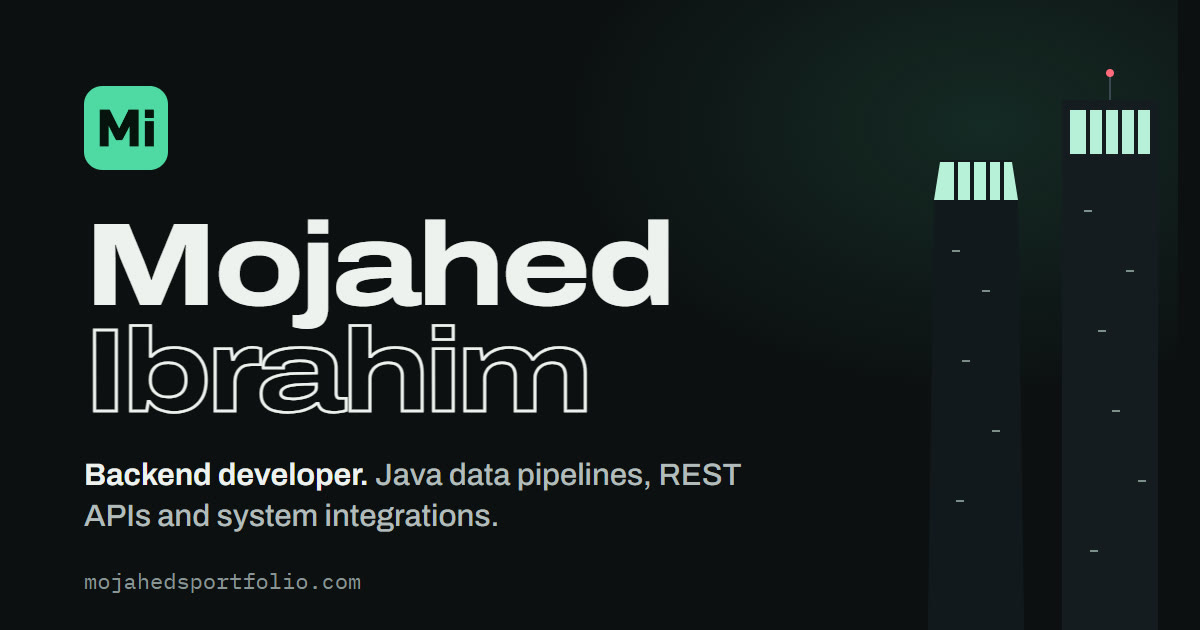
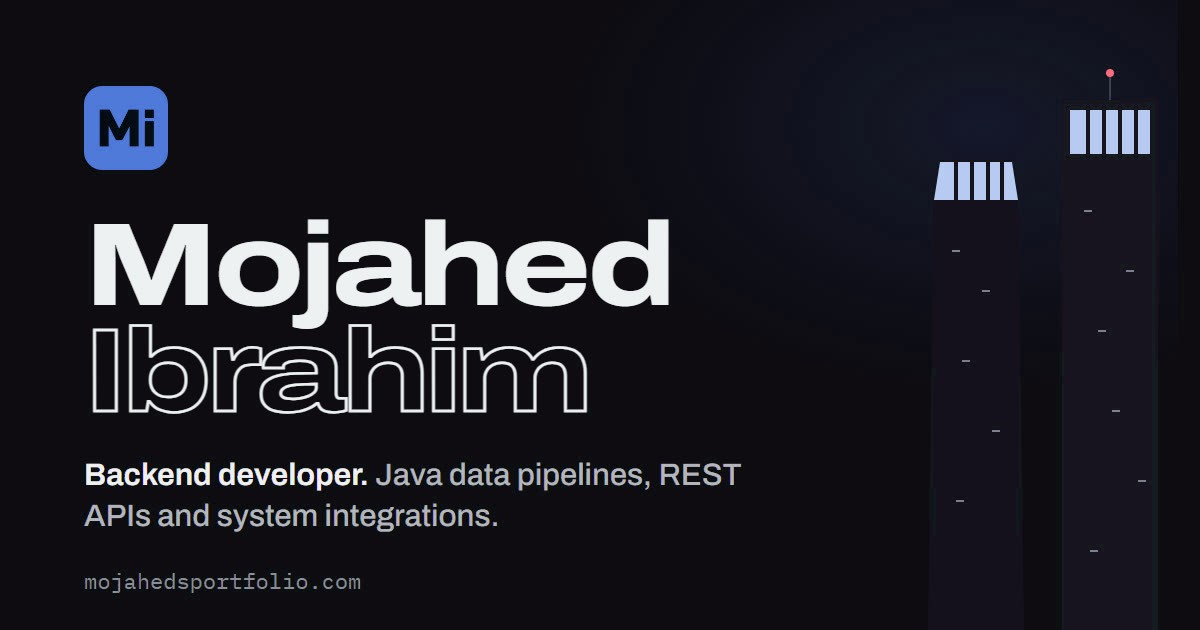
Replace the graphite and jade default with Blue Hour (navy, cobalt, rose)
The skyline colours now derive from the theme tokens, and the favicon, app
icons, social card and intro follow the new accent. Two alternative
palettes are previewable in dev with ?p=b and ?p=c.

diff --git a/src/styles.css b/src/styles.css
@@ -1,38 +1,77 @@
 /* Night shift: a résumé laid out as a control desk.
-   Cool graphite, like a server room with the lights down. One accent: jade, the green of a
-   passing check and a healthy service, which is what retries and failure alerts protect.
-   It is a blue-leaning green kept below neon, so it sits with the graphite instead of
-   glowing on it. Jade is a fill (buttons, the mark, a match) and, because it clears AA on
-   every surface here, also text and thin lines. Ice blue is the quiet second voice for
-   data (bars, timelines, focus). No yellow, orange, coral, periwinkle or purple.
-   Two themes: "dark" (graphite, the default) and "darker" (near-black for OLED screens
-   and dark rooms, where panels give way to hairlines). */
+   Two themes, one family. "dark" (Blue Hour, the default) is the sky twenty minutes after
+   sunset: navy slate panels, a cobalt accent, and rose for data, the last light on the
+   horizon. "darker" (Midnight) is the same sky hours later: blue-ink black for OLED
+   screens and dark rooms, where panels give way to hairlines and the accent cools to ice.
+   Cobalt is a fill (buttons, the mark, a match) and, because it clears AA on every surface
+   here, also text and thin lines. No yellow, orange or green. */
 
 :root,
 [data-theme="dark"] {
-  /* Evening: graphite, filled panels with soft shadows, jade accent. */
+  /* Blue Hour: navy slate, filled panels with soft shadows, cobalt accent, rose data. */
   color-scheme: dark;
-  --bg: #101416;
-  --panel: #161b1e;
-  --raised: #1d2427;
-  --sunk: #0c0f11;
-  --line: rgb(220 232 228 / 0.09);
-  --line-2: rgb(220 232 228 / 0.17);
-  --ink: #ecefec;
-  --ink-2: #aab4b2;
-  --ink-3: #8b9694;
-  --signal: #4fd9a4;
-  --signal-fg: #5fe0ae;
-  --signal-ink: #06130d;
-  --signal-soft: rgb(79 217 164 / 0.12);
+  --bg: #0e131f;
+  --panel: #151b2a;
+  --raised: #1d2437;
+  --sunk: #0a0e17;
+  --line: rgb(200 215 255 / 0.09);
+  --line-2: rgb(200 215 255 / 0.17);
+  --ink: #eceff6;
+  --ink-2: #aab2c5;
+  --ink-3: #8a93a8;
+  --signal: #7ea6ff;
+  --signal-fg: #94b6ff;
+  --signal-ink: #071026;
+  --signal-soft: rgb(126 166 255 / 0.13);
   --danger: #ff8a98;
-  --data: #8fb8cc;
-  --data-2: #5d889b;
-  --data-soft: rgb(143 184 204 / 0.12);
-  --tape: #e6ebe8;
-  --tape-ink: #1a1f21;
-  --shadow: 0 1px 0 rgb(255 255 255 / 0.04) inset, 0 24px 48px -28px rgb(2 8 6 / 0.7);
-  --pop: 0 30px 80px -20px rgb(2 6 8 / 0.8);
+  --data: #f0a3c0;
+  --data-2: #b0688a;
+  --data-soft: rgb(240 163 192 / 0.12);
+  --tape: #e4e8f2;
+  --tape-ink: #161b28;
+  --shadow: 0 1px 0 rgb(255 255 255 / 0.04) inset, 0 24px 48px -28px rgb(2 4 12 / 0.7);
+  --pop: 0 30px 80px -20px rgb(2 4 10 / 0.8);
+}
+
+/* PALETTE CANDIDATES (review only): ?p=b or ?p=c in dev. Delete the two blocks that lose. */
+[data-theme="dark"][data-p="b"] {
+  /* Dusk Rose: plum ink, rose accent, periwinkle data. */
+  --bg: #15121b;
+  --panel: #1c1824;
+  --raised: #251f30;
+  --sunk: #0f0c14;
+  --line: rgb(235 215 245 / 0.09);
+  --line-2: rgb(235 215 245 / 0.17);
+  --ink: #f1ecf3;
+  --ink-2: #b7adbd;
+  --ink-3: #968c9d;
+  --signal: #f28db2;
+  --signal-fg: #f7a3c2;
+  --signal-ink: #2a0716;
+  --signal-soft: rgb(242 141 178 / 0.13);
+  --data: #9db5ff;
+  --data-2: #6a80c4;
+  --data-soft: rgb(157 181 255 / 0.12);
+}
+
+[data-theme="dark"][data-p="c"] {
+  /* Violet Ink: indigo black, violet accent, cyan data. */
+  --bg: #100f1c;
+  --panel: #171628;
+  --raised: #201e36;
+  --sunk: #0a0914;
+  --line: rgb(205 200 255 / 0.09);
+  --line-2: rgb(205 200 255 / 0.17);
+  --ink: #eeedf7;
+  --ink-2: #afadc4;
+  --ink-3: #8f8ca8;
+  --signal: #a79bff;
+  --signal-fg: #b9afff;
+  --signal-ink: #0e0a2c;
+  --signal-soft: rgb(167 155 255 / 0.13);
+  --data: #6fd0e8;
+  --data-2: #3f93aa;
+  --data-soft: rgb(111 208 232 / 0.12);
 }
 
 [data-theme="darker"] {
@@ -341,16 +380,16 @@ kbd {
 
 /* Fixed colours in every theme so the mark always matches the favicon and app icons. */
 .mark-tile {
-  fill: #4fd9a4;
+  fill: #7ea6ff;
 }
 
 .mark-px {
-  fill: #07130e;
+  fill: #071026;
 }
 
 /* Tool logos are drawn in one ink tone, not brand colours: brand yellows and oranges
    (JavaScript, HTML, Git, Grafana...) would break the palette, and one tone keeps a
-   cloud of 100 chips calm. Hover and selection light them in jade. */
+   cloud of 100 chips calm. Hover and selection light them in the accent. */
 .slogo {
   flex: none;
   width: var(--s, auto);
@@ -554,7 +593,7 @@ kbd {
   isolation: isolate;
 }
 
-/* One flat wash of jade light behind the name, like a lit room seen from the street. */
+/* One flat wash of accent light behind the name, like a lit room seen from the street. */
 .hero::before {
   content: "";
   position: absolute;
@@ -3909,31 +3948,32 @@ kbd {
    the dashboard and the skill finder; the finder panel docks on its waterline. */
 :root,
 [data-theme="dark"] {
-  --sky-2: #0e1519;
-  --sky-3: #152127;
-  --sky-glow: rgb(79 217 164 / 0.07);
-  --sk-star: #dfe9ec;
-  --sk-moon: #eef1ee;
-  --sk-far: #172228;
-  --sk-mid: #121b20;
-  --sk-near: #0d1417;
-  --sk-mark: #090f11;
-  --sk-hall: #0f171a;
-  --sk-dark: #1a252b;
-  /* Lit windows are office fluorescents: white with a little jade in it. */
-  --sk-warm: #d3eee2;
-  --sk-ice: #cfe2ea;
-  /* The two Comcast crowns: lit glass in the site's jade, washed toward white. */
-  --sk-crown: #b8f0d8;
-  --sk-lantern: #b8f0d8;
+  /* Derived from the theme tokens, so the skyline follows the palette. */
+  --sky-2: color-mix(in oklab, var(--bg) 93%, var(--signal));
+  --sky-3: color-mix(in oklab, var(--bg) 84%, var(--signal));
+  --sky-glow: color-mix(in srgb, var(--data) 10%, transparent);
+  --sk-star: color-mix(in oklab, white 88%, var(--signal));
+  --sk-moon: color-mix(in oklab, white 92%, var(--signal));
+  --sk-far: color-mix(in oklab, var(--bg) 86%, var(--signal));
+  --sk-mid: color-mix(in oklab, var(--bg) 93%, var(--signal));
+  --sk-near: color-mix(in oklab, var(--bg) 82%, black);
+  --sk-mark: color-mix(in oklab, var(--bg) 58%, black);
+  --sk-hall: color-mix(in oklab, var(--bg) 90%, black);
+  --sk-dark: color-mix(in oklab, var(--bg) 82%, var(--signal));
+  /* Lit windows are office fluorescents: white with a little of the accent in it. */
+  --sk-warm: color-mix(in oklab, white 78%, var(--signal));
+  --sk-ice: color-mix(in oklab, white 78%, var(--data));
+  /* The two Comcast crowns: lit glass in the accent, washed toward white. */
+  --sk-crown: color-mix(in oklab, white 45%, var(--signal));
+  --sk-lantern: color-mix(in oklab, white 45%, var(--signal));
   /* Aircraft warning lights are red on real towers. */
   --sk-beacon: #ff6b7d;
-  --sk-water: #101416;
-  --sk-bridge: #1c272d;
-  --sk-cable: #384a53;
-  --sk-bulb: #eef3f1;
-  --sk-house: #c9e9db;
-  --sk-crown-2: #a9d8ff;
+  --sk-water: var(--bg);
+  --sk-bridge: color-mix(in oklab, var(--bg) 80%, var(--signal));
+  --sk-cable: color-mix(in oklab, var(--bg) 58%, var(--signal));
+  --sk-bulb: color-mix(in oklab, white 92%, var(--signal));
+  --sk-house: color-mix(in oklab, white 70%, var(--signal));
+  --sk-crown-2: color-mix(in oklab, white 35%, var(--data));
 }
 
 /* Midnight: later and colder. Fewer offices lit, more stars, a full moon, and the two
@@ -4142,7 +4182,7 @@ html {
   to { transform: translate(1680px, 50px); }
 }
 
-/* Konami: every window on, the bridge lights go jade, fireworks over the city. */
+/* Konami: every window on, the bridge lights go accent, fireworks over the city. */
 .skyline.is-cheat .sk-win-dark { fill: var(--sk-warm); }
 .skyline.is-cheat .sk-bulb { fill: var(--signal); }
 
@@ -4237,7 +4277,7 @@ html {
 .px-w { fill: #f1efe9; }
 .px-n { fill: #3a4789; }
 .px-d { fill: #283266; }
-.px-r { fill: #4fd9a4; }
+.px-r { fill: var(--signal); }
 
 /* ---------- the walker on the tape ---------- */
 .tape-track {

diff --git a/src/components/themeToggle.jsx b/src/components/themeToggle.jsx
@@ -2,10 +2,10 @@ import { useState } from "react";
 import { flushSync } from "react-dom";
 import { reducedMotion } from "../motion";
 
-// Two dark moods: "dark" (Evening: graphite and jade, the default) and "darker"
+// Two dark moods: "dark" (Blue Hour: navy slate and cobalt, the default) and "darker"
 // (Midnight: blue-ink black, hairlines and moonlight blue). index.html applies the saved one before first paint; this flips it,
 // remembers it and keeps the browser chrome colour in step.
-const CHROME = { dark: "#101416", darker: "#06080f" };
+const CHROME = { dark: "#0e131f", darker: "#06080f" };
 
 function ThemeToggle() {
   const [theme, setTheme] = useState(() => (document.documentElement.dataset.theme === "darker" ? "darker" : "dark"));
@@ -33,7 +33,7 @@ function ThemeToggle() {
     document.startViewTransition(apply).finished.finally(() => root.classList.remove("theme-flip"));
   };
 
-  // A switch named "Darker": off is the graphite theme, on is near-black. The moon's dark
+  // A switch named "Darker": off is the navy theme, on is near-black. The moon's dark
   // side grows when it is on.
   return (
     <button
@@ -41,7 +41,7 @@ function ThemeToggle() {
       className="theme-toggle"
       onClick={toggle}
       aria-pressed={theme === "darker"}
-      title={theme === "darker" ? "Back to Evening, the graphite theme" : "Midnight: blue-black with moonlight accents"}
+      title={theme === "darker" ? "Back to Blue Hour, the navy theme" : "Midnight: blue-black with moonlight accents"}
     >
       <svg viewBox="0 0 24 24" width="16" height="16" aria-hidden="true" focusable="false">
         <circle className="tt-disc" cx="12" cy="12" r="8" />

diff --git a/index.html b/index.html
@@ -10,7 +10,7 @@
       content="Philadelphia backend developer. I build Java data pipelines, REST APIs and system integrations with retries and failure alerts, and I make slow batch jobs fast. Projects, experience and résumé."
     />
     <meta name="color-scheme" content="dark" />
-    <meta name="theme-color" content="#101416" />
+    <meta name="theme-color" content="#0e131f" />
     <!-- Apply the saved theme (dark or darker) before first paint, so it never flashes. Dark is the default. -->
     <script>
       (function () {
@@ -95,9 +95,9 @@
     <div id="intro" aria-hidden="true">
       <div class="intro-in">
         <svg class="intro-mark" viewBox="0 0 32 32">
-          <rect width="32" height="32" rx="7" fill="#4fd9a4" />
-          <path fill="#07130e" d="M6 23V9h3.8l3.6 7.2L17 9h3.8v14h-3.4v-7.8l-2.8 5.4h-2.4l-2.8-5.4V23zM23.2 13.4h3.4V23h-3.4z" />
-          <path class="intro-dot" fill="#07130e" d="M23.2 9h3.4v3.2h-3.4z" />
+          <rect width="32" height="32" rx="7" fill="#7ea6ff" />
+          <path fill="#071026" d="M6 23V9h3.8l3.6 7.2L17 9h3.8v14h-3.4v-7.8l-2.8 5.4h-2.4l-2.8-5.4V23zM23.2 13.4h3.4V23h-3.4z" />
+          <path class="intro-dot" fill="#071026" d="M23.2 9h3.4v3.2h-3.4z" />
         </svg>
         <p class="intro-name">Mojahed Ibrahim</p>
         <p class="intro-role">Backend developer, Philadelphia</p>

diff --git a/src/intro.css b/src/intro.css
@@ -7,8 +7,8 @@
   display: grid;
   place-items: center;
   pointer-events: none;
-  background: #101416;
-  color: #eef1ee;
+  background: #0e131f;
+  color: #eceff6;
   animation: intro-out 0.5s cubic-bezier(0.7, 0, 0.2, 1) 1.05s forwards;
 }
 [data-theme="darker"] #intro { background: #06080f; }
@@ -28,7 +28,7 @@
   margin: 0;
   opacity: 0;
   font: 450 0.9rem/1.3 "IBM Plex Mono", ui-monospace, monospace;
-  color: #b2bcbc;
+  color: #aab2c5;
   animation: intro-fade 0.4s ease-out 0.5s forwards;
 }
 @keyframes intro-mark { from { opacity: 0; transform: scale(0.72); } }

diff --git a/src/main.jsx b/src/main.jsx
@@ -11,6 +11,12 @@ import App from "./App";
 // only where the observer that reveals them exists (otherwise nothing hides).
 if ("IntersectionObserver" in window) document.documentElement.classList.add("js");
 
+// Review only: ?p=b or ?p=c previews the palette candidates in styles.css. Remove with them.
+if (import.meta.env.DEV) {
+  const p = new URLSearchParams(location.search).get("p");
+  if (p) document.documentElement.dataset.p = p;
+}
+
 createRoot(document.getElementById("root")).render(
   <React.StrictMode>
     <App />

diff --git a/src/components/logo.jsx b/src/components/logo.jsx
@@ -1,4 +1,4 @@
-// The mark: a lowercase "Mi" cut from a jade tile. The dot of the i is a lit
+// The mark: a lowercase "Mi" cut from an accent tile. The dot of the i is a lit
 // window, the same square that lights up across the skyline. Same drawing as
 // public/favicon.svg and the PNG app icons; keep them in step.
 const MARK_M = "M6 23V9h3.8l3.6 7.2L17 9h3.8v14h-3.4v-7.8l-2.8 5.4h-2.4l-2.8-5.4V23z";

diff --git a/src/sprites.js b/src/sprites.js
@@ -1,6 +1,6 @@
 // Sprite grids for <Pix>: one character per pixel, "." is clear. Colors live in styles.css (.px-<char>).
 
-// Player One: beard, navy suit, jade tie (after the portrait). 12 x 16, facing right.
+// Player One: beard, navy suit, accent tie (after the portrait). 12 x 16, facing right.
 // k ink, s skin, w shirt, n suit, d suit shade, r tie
 const HEAD = [
   "....kkkkk...",
